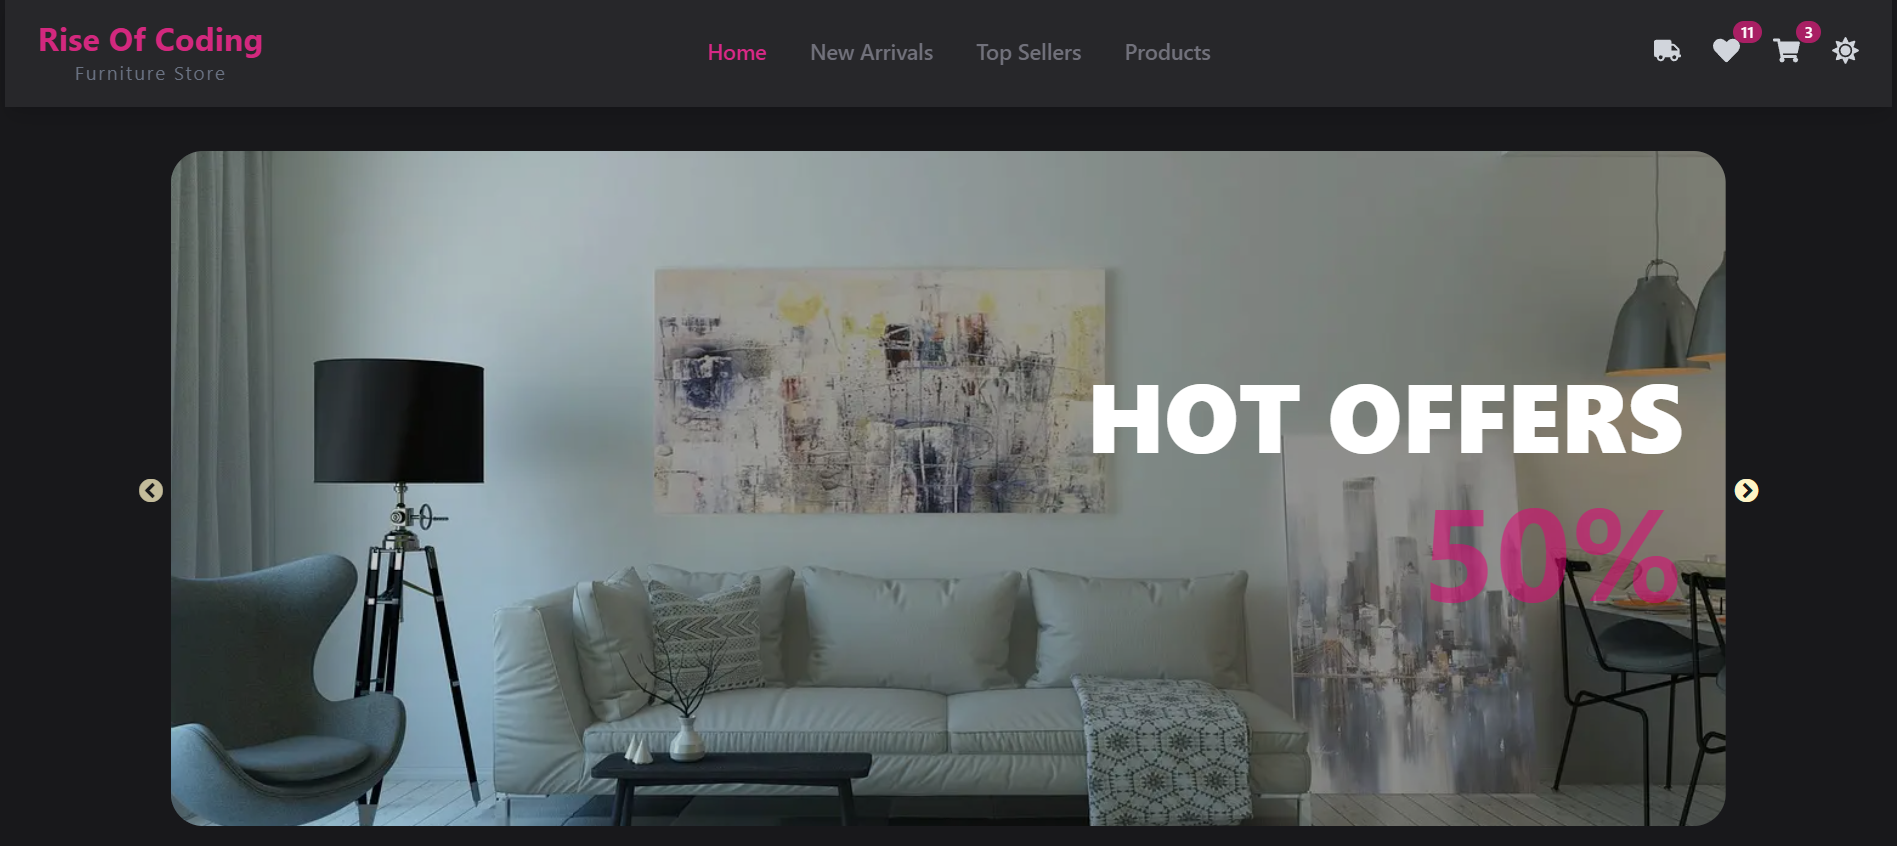
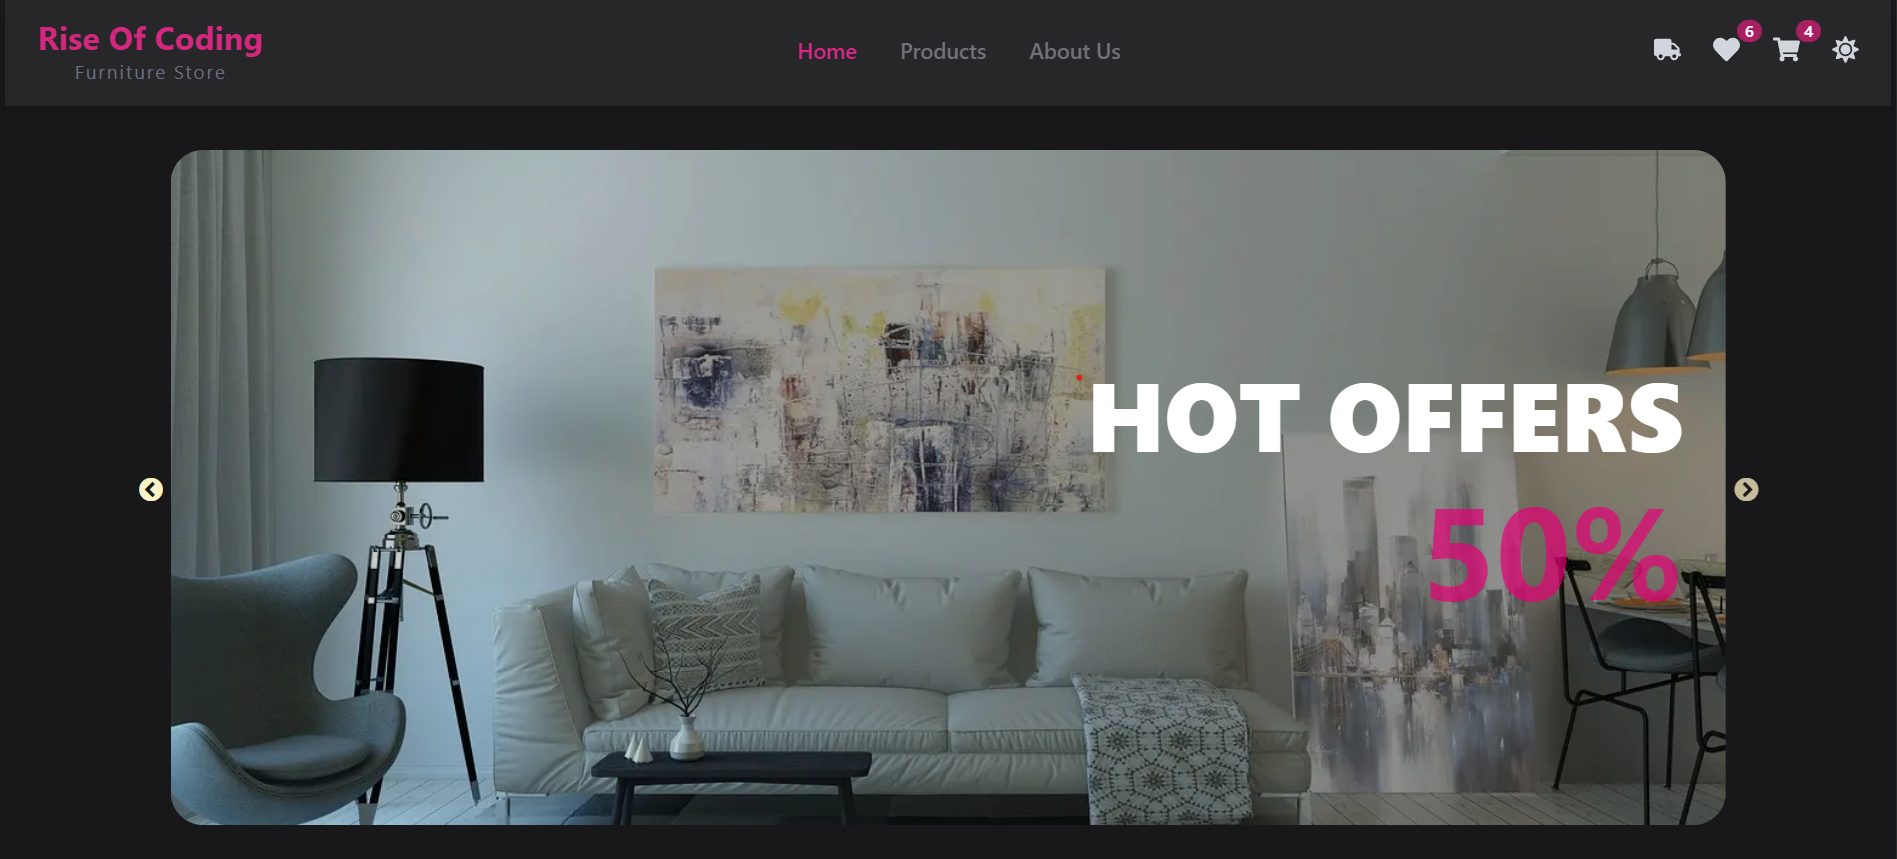
add about us page

diff --git a/src/app/wishlist/Wishlist.jsx b/src/app/wishlist/Wishlist.jsx
@@ -1,12 +1,13 @@
 "use client";
 import { useDispatch, useSelector } from "react-redux";
 import { removeFromWishlist } from "@/lib/wishlistSlice";
-import { useState, useMemo, useCallback, memo } from "react";
+import { addToCart } from "@/lib/cartSlice";
+import { useState, useMemo, useCallback, memo, useEffect } from "react";
 import Image from "next/image";
 import { motion, AnimatePresence } from "framer-motion";
+import Link from "next/link";
 
-// Row component with memo to prevent unnecessary re-renders
-const WishlistRow = memo(({ item, onRemove }) => (
+const WishlistRow = memo(({ item, onRemove, onAddToCart }) => (
   <tr
     key={item.id}
     className="hover:bg-zinc-800/40 transition duration-200 border-b border-gray-700 last:border-0"
@@ -23,22 +24,40 @@ const WishlistRow = memo(({ item, onRemove }) => (
         blurDataURL="/blur-placeholder.png"
       />
     </td>
-    <td className="px-6 py-4 font-semibold text-sm md:text-sm">{item.text}</td>
-    <td className="px-6 py-4 text-sm md:text-sm">${item.price}</td>
-    <td className="px-6 py-4 text-sm md:text-sm">{item.category}</td>
+    <td className="px-6 py-4 font-semibold text-sm md:text-base">{item.text}</td>
+    <td className="px-6 py-4 text-sm md:text-base">${item.price}</td>
+    <td className="px-6 py-4 text-sm md:text-base">{item.category}</td>
     <td
       className={`px-6 py-4 font-semibold ${
         item.inStock
-          ? "text-green-500 text-xs md:text-sm"
-          : "text-red-500 text-xs md:text-sm"
+          ? "text-green-500 text-xs md:text-base"
+          : "text-red-500 text-xs md:text-base"
       }`}
     >
       {item.inStock ? "In Stock" : "Out of Stock"}
     </td>
-    <td className="px-6 py-4 text-center">
+    <td className="px-6 py-4 text-center grid grid-cols-1 gap-5 md:grid-cols-2 md:gap-x-5 relative top-2">
+      <button
+        disabled={!item.inStock}
+        onClick={() => onAddToCart(item)}
+        className="
+          w-full
+          px-4 py-1 
+          md:px-2 md:py-1.5              
+          text-sm   
+          bg-green-600 text-white
+          rounded-md
+          hover:bg-green-500
+          disabled:bg-gray-500 disabled:cursor-not-allowed
+          cursor-pointer
+        "
+      >
+        Add to cart
+      </button>
+
       <button
         onClick={() => onRemove(item.id)}
-        className="bg-red-500 cursor-pointer text-white px-4 py-2 rounded-lg hover:bg-red-600 transition"
+        className="bg-red-500 cursor-pointer text-white px-3 py-1.5 rounded-lg hover:bg-red-600 transition"
       >
         Remove
       </button>
@@ -51,11 +70,9 @@ const Wishlist = () => {
   const dispatch = useDispatch();
   const wishlistItems = useSelector((state) => state.wishlist.items);
 
-  // Pagination states
   const [currentPage, setCurrentPage] = useState(1);
   const itemsPerPage = 4;
 
-  // Remove handler wrapped in useCallback
   const handleRemove = useCallback(
     (id) => {
       dispatch(removeFromWishlist(id));
@@ -63,29 +80,54 @@ const Wishlist = () => {
     [dispatch]
   );
 
-  // Memoize paginated items
-  const paginatedItems = useMemo(() => {
-    const startIndex = (currentPage - 1) * itemsPerPage;
-    return wishlistItems.slice(startIndex, startIndex + itemsPerPage);
-  }, [wishlistItems, currentPage]);
+  const addToCartHandler = useCallback(
+    (item) => {
+      const cartItem = {
+        ...item,
+        quantity: 1,
+      };
+      dispatch(addToCart(cartItem));
+    },
+    [dispatch]
+  );
 
-  // Memoize totalPages
   const totalPages = useMemo(
     () => Math.ceil(wishlistItems.length / itemsPerPage),
     [wishlistItems.length]
   );
 
+  const paginatedItems = useMemo(() => {
+    const startIndex = (currentPage - 1) * itemsPerPage;
+    return wishlistItems.slice(startIndex, startIndex + itemsPerPage);
+  }, [wishlistItems, currentPage]);
+
+  useEffect(() => {
+    if (currentPage > totalPages) {
+      setCurrentPage(totalPages > 0 ? totalPages : 1);
+    }
+  }, [totalPages, currentPage]);
+
   return (
     <div className="max-w-6xl mx-auto px-4 py-4">
       <h2 className="text-xl md:text-2xl font-bold bg-[#8d1841] text-white text-center mb-6 p-4 rounded-2xl w-full md:w-2/4 mx-auto shadow-md">
-        Your Favourite Products
+        Your Favourite Products{" "}
+        <span className="text-green-500">{wishlistItems.length}</span>
       </h2>
-
       {wishlistItems.length === 0 ? (
-        <p className="text-center text-gray-500">Your wishlist is empty.</p>
+        <div className="flex justify-center items-center min-h-[50vh]">
+          <div className="text-center py-9 rounded-2xl w-1/2 mx-auto bg-gradient-to-br from-[#1a1919] via-[#2b0b19e8] to-[#781a49]">
+            <p className="text-white">Your wish list is empty 😔</p>
+            <Link
+              href="/products"
+              className="mt-4 inline-block bg-[#65173f] text-white px-4 py-2 rounded-md hover:bg-[#8a1b54] text-sm sm:text-base"
+            >
+              Shop Now
+            </Link>
+          </div>
+        </div>
       ) : (
         <div className="overflow-x-auto">
-          <table className="favTable border border-zinc-400 min-h-[400px] min-w-full border-collapse rounded-2xl shadow-lg backdrop-blur-md">
+          <table className="favTable border border-zinc-400 min-h-[100px] min-w-full border-collapse rounded-2xl shadow-lg backdrop-blur-md">
             <thead className="hidden md:table-header-group">
               <tr className="bg-[#8d1841] text-white text-left">
                 <th className="px-6 py-3">Image</th>
@@ -106,13 +148,17 @@ const Wishlist = () => {
                 transition={{ duration: 0.3, ease: "easeInOut" }}
               >
                 {paginatedItems.map((item) => (
-                  <WishlistRow key={item.id} item={item} onRemove={handleRemove} />
+                  <WishlistRow
+                    key={item.id}
+                    item={item}
+                    onRemove={handleRemove}
+                    onAddToCart={addToCartHandler}
+                  />
                 ))}
               </motion.tbody>
             </AnimatePresence>
           </table>
 
-          {/* Pagination */}
           <div className="flex justify-center items-center gap-2 mt-6">
             {Array.from({ length: totalPages }, (_, index) => (
               <button
@@ -122,7 +168,7 @@ const Wishlist = () => {
                   currentPage === index + 1
                     ? "bg-[#8d1841] text-white"
                     : "bg-gray-200 text-gray-700 hover:bg-gray-300"
-                }`}
+                } ${totalPages <= 1 ? "hidden" : ""}`}
               >
                 {index + 1}
               </button>

diff --git a/src/app/aboutus/page.jsx b/src/app/aboutus/page.jsx
@@ -1,0 +1,132 @@
+export const metadata = {
+  title: "About Us",
+  description:
+    "Discover our story, vision, and commitment to crafting timeless furniture pieces with unmatched quality and design.",
+};
+
+const Page = () => {
+  return (
+    <div className="max-w-5xl mx-auto px-6 py-16 text-gray-100">
+      {/* Header */}
+      <h1 className="text-4xl font-bold text-center mb-6 text-[#a91f64]">
+        About Us
+      </h1>
+      <p className="text-center text-lg text-gray-300 max-w-3xl mx-auto">
+        We are more than just a furniture store — we are a team of passionate
+        creators dedicated to turning houses into homes through timeless design,
+        premium materials, and exceptional craftsmanship.
+      </p>
+
+      {/* Our Story */}
+      <section className="mt-16">
+        <h2 className="text-2xl font-semibold mb-4 text-[#a91f64]">
+          Our Story
+        </h2>
+        <p className="leading-relaxed text-gray-300">
+          What started as a small workshop with a vision to bring unique,
+          handcrafted furniture into everyday living spaces has now grown into a
+          trusted name in the furniture industry. For years, we have worked with
+          skilled artisans and designers who share our passion for excellence.
+          Every piece we create is built to last, designed with both
+          functionality and elegance in mind.
+        </p>
+      </section>
+
+      {/* Mission & Vision */}
+      <section className="mt-12 grid md:grid-cols-2 gap-10">
+        <div>
+          <h2 className="text-2xl font-semibold mb-4 text-[#a91f64]">
+            Our Mission
+          </h2>
+          <p className="leading-relaxed text-gray-300">
+            Our mission is simple: to transform your living spaces into places
+            of comfort, style, and inspiration. We aim to provide furniture that
+            not only looks beautiful but also fits seamlessly into your
+            lifestyle.
+          </p>
+        </div>
+        <div>
+          <h2 className="text-2xl font-semibold mb-4 text-[#a91f64]">
+            Our Vision
+          </h2>
+          <p className="leading-relaxed text-gray-300">
+            We envision a future where quality furniture is accessible to
+            everyone, where each home is a reflection of personality and taste,
+            and where sustainability is at the heart of design.
+          </p>
+        </div>
+      </section>
+
+      {/* Values */}
+      <section className="mt-12">
+        <h2 className="text-2xl font-semibold mb-4 text-[#a91f64]">
+          What We Stand For
+        </h2>
+        <ul className="space-y-3 list-disc list-inside text-gray-300">
+          <li>
+            <span className="font-semibold">Quality First:</span> Every piece of
+            furniture is built with precision and premium materials.
+          </li>
+          <li>
+            <span className="font-semibold">Sustainability:</span> We care for
+            the environment by sourcing responsibly and minimizing waste.
+          </li>
+          <li>
+            <span className="font-semibold">Customer Experience:</span> From
+            consultation to delivery, we ensure every step is seamless.
+          </li>
+          <li>
+            <span className="font-semibold">Innovation:</span> Blending
+            tradition with modern design to create furniture that fits today’s
+            lifestyles.
+          </li>
+        </ul>
+      </section>
+
+      {/* Showroom */}
+      <section className="mt-12">
+        <h2 className="text-2xl font-semibold mb-4 text-[#a91f64]">
+          Our Showroom
+        </h2>
+        <p className="leading-relaxed text-gray-300">
+          Step into our showroom and you’ll find more than just furniture —
+          you’ll discover inspiration. From cozy sofas to elegant dining sets
+          and timeless bedroom collections, our displays are carefully curated
+          to help you imagine how each piece will look in your home.
+        </p>
+      </section>
+
+      {/* Craftsmanship */}
+      <section className="mt-12">
+        <h2 className="text-2xl font-semibold mb-4 text-[#a91f64]">
+          Craftsmanship That Lasts
+        </h2>
+        <p className="leading-relaxed text-gray-300">
+          Our artisans combine traditional techniques with modern tools to
+          create furniture that is both durable and stylish. Each item is
+          inspected with meticulous care, ensuring you receive nothing but the
+          best.
+        </p>
+      </section>
+
+      {/* Call to Action */}
+      <section className="mt-16 text-center">
+        <h2 className="text-3xl font-bold mb-4 text-[#a91f64]">
+          Experience the Difference
+        </h2>
+        <p className="text-gray-300 mb-6">
+          Visit our showroom or explore our online collection to find furniture
+          pieces that bring warmth, character, and elegance into your home.
+        </p>
+        <a
+          href="/products"
+          className="inline-block bg-[#a91f64] text-white px-6 py-3 rounded-lg hover:bg-[#8a1b54] transition"
+        >
+          Explore Our Collection
+        </a>
+      </section>
+    </div>
+  );
+};
+
+export default Page;

diff --git a/src/components/Navbar.jsx b/src/components/Navbar.jsx
@@ -55,9 +55,8 @@ const wishlistItemCount = wishlistItems.length;
 
   const navItems = [
     { label: "Home", href: "/" },
-    { label: "New Arrivals", href: "/new-arrivals" },
-    { label: "Top Sellers", href: "/top-sellers" },
     { label: "Products", href: "/products" },
+    { label: "About Us", href: "/aboutus" },
   ];
 
   return (
